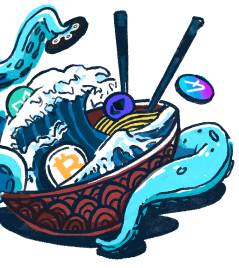
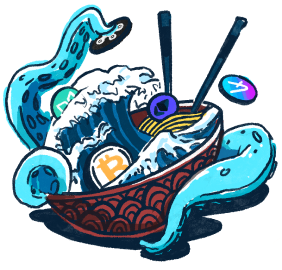
3 of 6 points described on the trello card.

diff --git a/src/screens/WalletScreen/Transactions/Transaction.tsx b/src/screens/WalletScreen/Transactions/Transaction.tsx
@@ -1,5 +1,5 @@
 import React, { useEffect } from 'react';
-import { StyleSheet } from 'react-native';
+import { StyleSheet, View } from 'react-native';
 import { useState } from '@hookstate/core';
 import { Transaction as ITransaction, smallWalletAddress, getENSAddress } from '@models/wallet';
 import { searchContact } from '@models/contact';
@@ -39,6 +39,8 @@ export const makeStyles = (colors: ReactNativePaper.ThemeColors) =>
 			fontSize: 16
 		}
 	});
+
+const truncate = (num: number | string, idx = 2) => +num.toString().slice(0, num.toString().indexOf('.') + (idx + 1));
 
 const Transaction = ({ transaction }: { transaction: ITransaction }) => {
 	const wallet = useState(globalWalletState());
@@ -93,14 +95,14 @@ const Transaction = ({ transaction }: { transaction: ITransaction }) => {
 			title={format(timestamp, 'MM/dd/yyyy hh:mm aa')}
 			subtitle={`${received ? 'From' : 'To'}: ${formattedSource}`}
 			right={
-				// eslint-disable-next-line react/jsx-wrap-multilines
 				<Text style={{ fontSize: 12 }}>
-					{value ? formatUnits(value, tokenDecimal) : ''} {tokenSymbol || token}
+					{value && Math.trunc(Number(formatUnits(value, tokenDecimal))) > 0 ?
+						formatUnits(value, tokenDecimal) :
+						truncate(formatUnits(value, tokenDecimal), 4)}{' '}
+					{tokenSymbol || token}
 				</Text>
 			}
-			style={{
-				opacity: isError === '1' ? 0.3 : 1
-			}}
+			style={{ opacity: isError === '1' ? 0.3 : 1 }}
 			onPress={openTransaction}
 		/>
 	);

diff --git a/src/screens/WalletCreatedScreen/WalletCreatedScreen.tsx b/src/screens/WalletCreatedScreen/WalletCreatedScreen.tsx
@@ -36,23 +36,37 @@ const WalletCreatedScreen = () => {
 	};
 
 	return (
-		<WelcomeLayout center>
+		<WelcomeLayout
+			center
+			style={{
+				flex: 1,
+				justifyContent: 'space-between'
+			}}
+		>
 			<Image source={walletCreatedImg} style={styles.image} />
-			<Text center weight="extraBold" type="h2" width={273} marginBottom={16}>
-				Wallet created!
-			</Text>
-			<Text center color="text2" width={258} marginBottom={48}>
-				Your keys your coin. Backup your wallet incase of loss.
-			</Text>
-			<View style={{ width: '100%', paddingHorizontal: 24 }}>
+
+			<View
+				style={{
+					width: '100%',
+					alignItems: 'center'
+				}}
+			>
+				<Text center weight="extraBold" type="h2" marginBottom={16}>
+					Wallet created!
+				</Text>
+				<Text center color="text2" width={250}>
+					Your keys your coin. Backup your wallet incase of loss.
+				</Text>
+			</View>
+			<View style={{ width: '100%', paddingHorizontal: 24, marginBottom: 48 }}>
 				<Button
 					title="Back up to iCloud"
 					iconRight="cloudStroke"
 					onPress={backupOnKeychain}
 					marginBottom={14}
 				/>
+				<Button title="Back up manually" mode="text" onPress={backupManually} />
 			</View>
-			<Button title="Back up manually" mode="text" onPress={backupManually} />
 		</WelcomeLayout>
 	);
 };

diff --git a/src/screens/WelcomeScreen/WelcomeScreen.tsx b/src/screens/WelcomeScreen/WelcomeScreen.tsx
@@ -14,10 +14,10 @@ import { NativeStackNavigationProp } from '@react-navigation/native-stack';
 import { Text, Button, Modal } from '@components';
 import { useNavigation } from '@react-navigation/native';
 import { globalWalletState, walletState } from '@stores/WalletStore';
+import { ActivityIndicator } from 'react-native-paper';
 import { RootStackParamList } from '../../routes/types.routes';
 import styles from './WelcomeScreen.styles';
 import ImportFlow from './ImportFlow';
-import { ActivityIndicator } from 'react-native-paper';
 
 const Background: React.FC = ({ children }) => {
 	const scheme = useColorScheme();
@@ -60,9 +60,7 @@ const WelcomeScreen = () => {
 			<WelcomeLayout>
 				<Background>
 					<View style={styles.container}>
-						<View style={{ width: '100%' }}>
-							<Image source={welcomeImg} style={styles.headerImage} />
-						</View>
+						<Image source={welcomeImg} style={styles.headerImage} />
 
 						<View style={styles.textContainer}>
 							<Text center weight="extraBold" type="h1" width={273} marginBottom={16}>

diff --git a/src/screens/WalletScreen/WalletScreen.tsx b/src/screens/WalletScreen/WalletScreen.tsx
@@ -17,7 +17,7 @@ import AssetsPanel from './AssetsPanel';
 import ActionsPanel from './ActionsPanel';
 import { RootStackParamList } from '../../routes/types.routes';
 import Transactions from './Transactions/Transactions';
-import NetWorth from './NetWorth/NetWorth';
+import Accounts from './Accounts/Accounts';
 import SendModal from './SendModal/SendModal';
 import SentModal from './SentModal';
 import ComingSoonModal from './ComingSoonModal';
@@ -125,11 +125,11 @@ const WalletScreen = () => {
 		<>
 			<TabLayout
 				leftTitle="Transactions"
-				rightTitle="Net worth"
+				rightTitle="Accounts"
 				left={
 					<Transactions onAddFunds={() => setAddFundsVisible(true)} {...{ onSeeAllTransactions, loading }} />
 				}
-				right={<NetWorth />}
+				right={<Accounts />}
 			>
 				<ScrollView
 					showsVerticalScrollIndicator={false}

diff --git a/src/routes/index.tsx b/src/routes/index.tsx
@@ -1,3 +1,4 @@
+/* eslint-disable @typescript-eslint/no-unused-vars */
 import React from 'react';
 import { useState } from '@hookstate/core';
 import { useColorScheme } from 'react-native';
@@ -37,6 +38,7 @@ const Routes: React.FC = () => {
 	const scheme = useColorScheme();
 	const walletState = useState(globalWalletState());
 	const initialScreen = walletState.value.walletId ? 'Wallet' : 'Welcome';
+	// const initialScreen = 'WalletCreated';
 	// const initialScreen = walletState.value.walletId ? 'Test' : 'Test';
 
 	const defaultOptions = ({ navigation }: NativeStackScreenProps<RootStackParamList>) => ({

diff --git a/src/screens/WalletScreen/ActionsPanel.tsx b/src/screens/WalletScreen/ActionsPanel.tsx
@@ -51,10 +51,10 @@ const arr = [
 	{ name: 'Send', icon: 'sendStroke' },
 	{ name: 'Exchange', icon: 'exchangeStroke' },
 	{ name: 'Receive', icon: 'receiveStroke' },
-	{ name: 'Copy address', icon: 'copyStroke' },
-	{ name: 'New wallet', icon: 'walletStroke' },
-	{ name: 'Switch accounts', icon: 'avatarStroke' },
-	{ name: 'Delete wallet', icon: 'closeStroke' }
+	{ name: 'Copy address', icon: 'copyStroke' }
+	// { name: 'New wallet', icon: 'walletStroke' },
+	// { name: 'Switch accounts', icon: 'avatarStroke' },
+	// { name: 'Delete wallet', icon: 'closeStroke' }
 ];
 
 interface ActionsPanelProps {

diff --git a/src/screens/WalletScreen/Accounts/Accounts.tsx b/src/screens/WalletScreen/Accounts/Accounts.tsx
@@ -49,10 +49,9 @@ const NetWorth = () => {
 							Deposit
 						</Text>
 						<Icon
-							name="arrowBackStroke"
+							name="arrowForwardStroke"
 							size={16}
 							color="text7"
-							style={{ transform: [{ rotate: '180deg' }] }}
 						/>
 					</View>
 				}

diff --git a/src/screens/WelcomeScreen/WelcomeScreen.styles.ts b/src/screens/WelcomeScreen/WelcomeScreen.styles.ts
@@ -25,9 +25,8 @@ export default StyleSheet.create({
 	},
 	headerImage: {
 		resizeMode: 'contain',
-		width: 304,
-		height: 288,
-		marginLeft: -24
+		width: 282,
+		height: 270
 	},
 	textContainer: {
 		width: '100%',

diff --git a/src/screens/WalletCreatedScreen/WalletCreatedScreen.styles.ts b/src/screens/WalletCreatedScreen/WalletCreatedScreen.styles.ts
@@ -3,8 +3,6 @@ import { StyleSheet } from 'react-native';
 export default StyleSheet.create({
 	image: {
 		width: 276,
-		height: 336,
-		marginBottom: 32,
-		resizeMode: 'cover'
+		height: 336
 	}
 });
